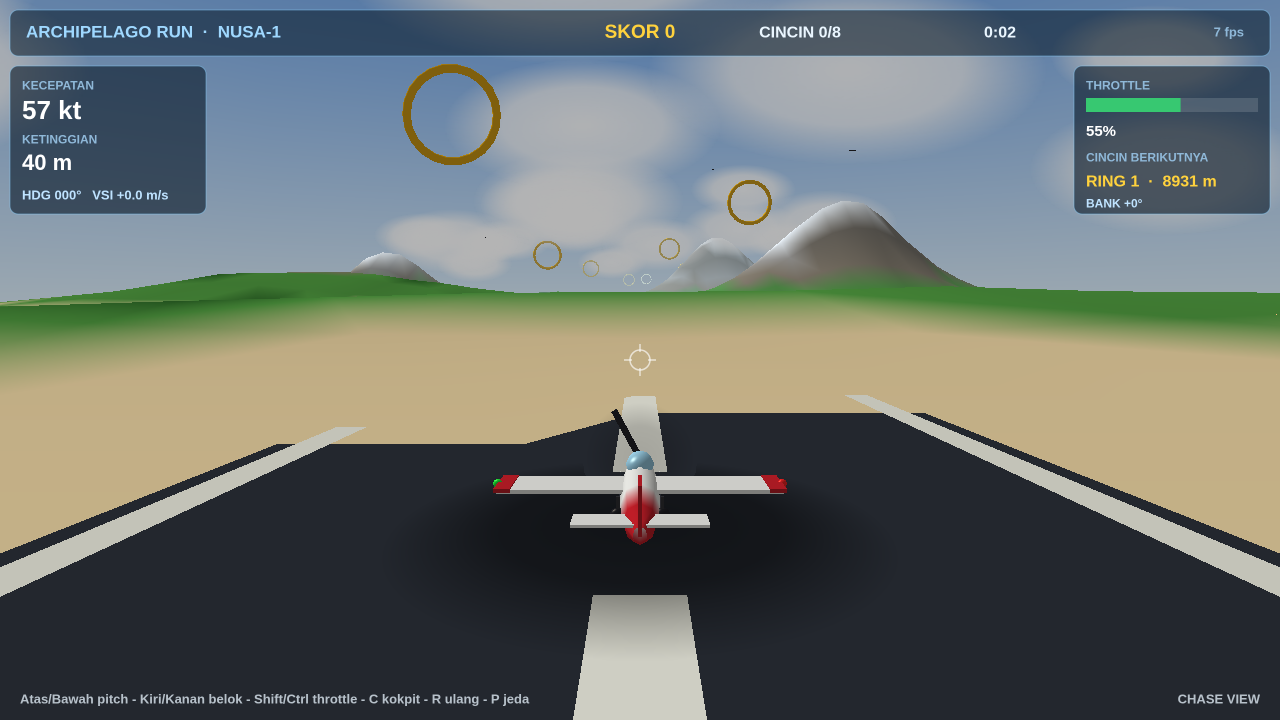
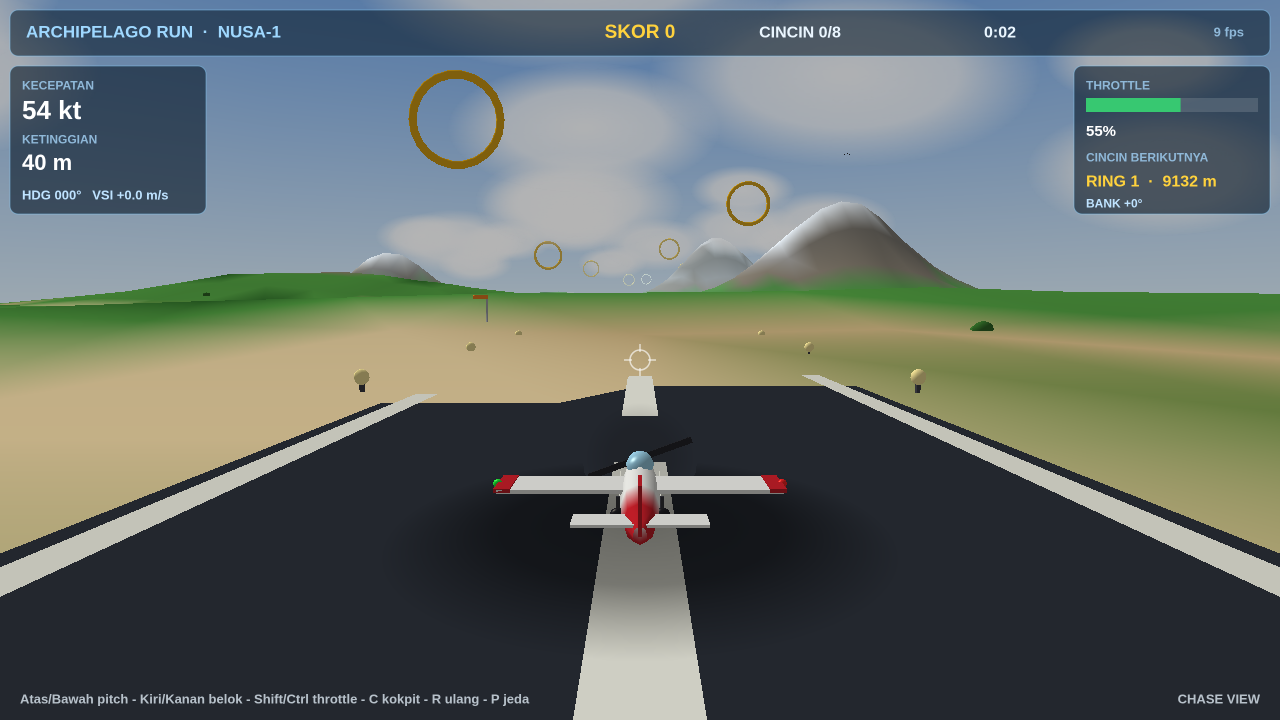
flight v2: fill the runway areas (landing view was empty)
- Airport dressing beside both runways: control tower, hangar with
  red door, windsock, runway edge lights, 2 parked Nusa-1 planes
- 6 extra palms + 48 bushes scattered on the islands (never on strips)
- Sand texture: grass tufts + tone patches break the flat desert look
- Verified: playtest 9/9 PASS, no JS errors; dossier builds clean

diff --git a/game/index.html b/game/index.html
@@ -93,6 +93,20 @@ for(let i=0;i<10;i++){
   const near=i<5;
   PALMS.push({x:side*(55+((i*37)%40)),z:near?-260+((i*53)%480):8680+((i*61)%520),h:14+((i*13)%10),lean:(rng()-0.5)*0.25});
 }
+// extra palms crowding both runway islands
+for(let i=0;i<6;i++){
+  const near=i<3;
+  PALMS.push({x:(i%2?1:-1)*(70+((i*29)%50)),z:near?-300+((i*71)%560):8620+((i*83)%640),h:12+((i*17)%10),lean:(rng()-0.5)*0.3});
+}
+// bushes scattered on the islands (never on a runway strip)
+const BUSHES=[];
+for(let i=0;i<48;i++){
+  const isl=ISLANDS[Math.floor(rng()*ISLANDS.length)];
+  const a=rng()*TAU,d=Math.sqrt(rng())*isl[2]*0.85;
+  const x=isl[0]+Math.cos(a)*d,z=isl[1]+Math.sin(a)*d;
+  if(Math.abs(x)<48&&((z>-360&&z<360)||(z>8640&&z<9360)))continue;
+  BUSHES.push({x:x,z:z,s:2.5+rng()*3.5});
+}
 
 // terrain height (also used for collision + shadow)
 function groundY(x,z){
@@ -433,7 +447,12 @@ function terrainColor(x,z,h,ny){
   if(h<0.5){ // seabed: sand fading to teal
     const t=clamp(-h/18,0,1);
     r=lerp(0.85,0.16,t);g=lerp(0.76,0.42,t);b=lerp(0.55,0.42,t);
-  }else if(h<7){r=0.90;g=0.81;b=0.62;} // sand
+  }else if(h<7){ // sand with grass tufts + tone patches
+    const t=vnoise(x*0.09+31,z*0.09+17);
+    if(t>0.66){r=0.42;g=0.55;b=0.26;}
+    else if(t<0.3){r=0.80;g=0.70;b=0.50;}
+    else{r=0.90;g=0.81;b=0.62;}
+  }
   else if(h<75){ // jungle grass with speckle
     const v=0.92+n*0.16;
     r=0.30*v;g=0.58*v;b=0.24*v;
@@ -512,6 +531,14 @@ function buildRunways(){
       const dz=(cz<4500?-300:300);
       meshFlatQuad(m,[k*8-3,2.55,cz+dz-8],[k*8+3,2.55,cz+dz-8],[k*8+3,2.55,cz+dz+8],[k*8-3,2.55,cz+dz+8],[0,1,0],0.95,0.95,0.9,null);
     }
+    // edge lights: posts + warm lamps along both sides
+    for(let k=-5;k<=5;k++){
+      const dz=k*55;
+      for(const sx of [-38,38]){
+        meshBox(m,sx,3.4,cz+dz,0.5,2.0,0.5,0.25,0.25,0.28);
+        meshSphere(m,sx,4.6,cz+dz,1.1,1.1,1.1,1.0,0.93,0.62,6);
+      }
+    }
   }
   strip(0);strip(9000);
   return {mesh:meshToGL(m)};
@@ -523,6 +550,43 @@ function buildRunwayNumbers(){
   const m27=Mesh();
   meshFlatQuad(m27,[-16,2.7,9296],[16,2.7,9296],[16,2.7,9240],[-16,2.7,9240],[0,1,0],1,1,1,[[0,1],[1,1],[1,0],[0,0]]);
   return {n09:meshToGL(m09),n27:meshToGL(m27)};
+}
+function buildBushes(){
+  const m=Mesh();
+  for(const b of BUSHES){
+    const gy=groundY(b.x,b.z);
+    meshSphere(m,b.x,gy+b.s*0.5,b.z,b.s,b.s*0.7,b.s,0.20,0.44,0.16,6);
+    meshSphere(m,b.x+b.s*0.5,gy+b.s*0.35,b.z+b.s*0.3,b.s*0.6,b.s*0.45,b.s*0.6,0.24,0.50,0.18,6);
+  }
+  return meshToGL(m);
+}
+// control tower + hangar + windsock beside each runway
+function buildAirport(){
+  const m=Mesh();
+  function tower(cx,cz){
+    const gy=groundY(cx,cz);
+    meshCylinder(m,cx,gy+15,cz,2.6,3.4,30,0.92,0.92,0.90,8);
+    meshBox(m,cx,gy+32,cz,11,5,11,0.35,0.62,0.85);
+    meshBox(m,cx,gy+35.5,cz,11.5,1,11.5,0.75,0.15,0.18);
+    meshBox(m,cx,gy+39,cz,0.4,6,0.4,0.3,0.3,0.32);
+    meshSphere(m,cx,gy+42.5,cz,0.9,0.9,0.9,1.0,0.3,0.2,6);
+  }
+  function hangar(cx,cz){
+    const gy=groundY(cx,cz);
+    meshBox(m,cx,gy+5,cz,34,10,22,0.82,0.83,0.85);
+    meshBox(m,cx,gy+10.8,cz,36,1.6,24,0.55,0.58,0.62);
+    meshBox(m,cx+17.2,gy+5,cz,0.6,8,18,0.78,0.12,0.16);
+  }
+  function windsock(cx,cz){
+    const gy=groundY(cx,cz);
+    meshCylinder(m,cx,gy+4.5,cz,0.25,0.35,9,0.7,0.7,0.72,6);
+    meshBox(m,cx+2,gy+9,cz,4.5,1.1,1.1,1.0,0.55,0.15);
+    meshSphere(m,cx+4.4,gy+9,cz,0.7,0.7,0.7,1.0,0.55,0.15,6);
+  }
+  tower(75,9050);tower(75,-80);
+  hangar(-88,9120);hangar(-88,-140);
+  windsock(55,8850);windsock(55,250);
+  return meshToGL(m);
 }
 function buildPalms(){
   const m=Mesh();
@@ -618,6 +682,8 @@ const skyGL=buildSky();
 const runwayGL=buildRunways().mesh;
 const runwayNums=buildRunwayNumbers();
 const palmGL=buildPalms();
+const bushGL=buildBushes();
+const airportGL=buildAirport();
 const ringGLs=RINGS.map(buildRingMesh);
 const planeGL=buildPlane();
 const propGL=buildProp();
@@ -872,6 +938,8 @@ function render(){
   drawMesh(runwayNums.n09,ident,{tex:tex09,alpha:0.95});
   drawMesh(runwayNums.n27,ident,{tex:tex27,alpha:0.95});
   drawMesh(palmGL,ident,{});
+  drawMesh(bushGL,ident,{});
+  drawMesh(airportGL,ident,{});
   // rings (passed ones turn pale green)
   for(let i=0;i<8;i++){
     if(RINGS[i].passed){
@@ -896,6 +964,13 @@ function render(){
     drawMesh(propGL,propModel,{});
     drawMesh(propDiscGL,matMul(planeModel,matTranslate(0,0.4,7.2)),{tex:blobTex,alpha:0.22});
   }
+  // parked planes beside each runway (static, no collision)
+  const park1=matMul(matTranslate(-58,groundY(-58,9150)+2,9150),matMul(matRotY(0.6),matScale(0.9,0.9,0.9)));
+  drawMesh(planeGL,park1,{spec:0.35});
+  drawMesh(propGL,matMul(park1,matMul(matTranslate(0,0.4,7.15),matRotZ(0.5))),{});
+  const park2=matMul(matTranslate(58,groundY(58,-180)+2,-180),matMul(matRotY(-2.4),matScale(0.9,0.9,0.9)));
+  drawMesh(planeGL,park2,{spec:0.35});
+  drawMesh(propGL,matMul(park2,matMul(matTranslate(0,0.4,7.15),matRotZ(2.1))),{});
   // plane shadow on the ground below
   const gy=groundY(S.x,S.z);
   const alt=Math.max(0,S.y-gy);
